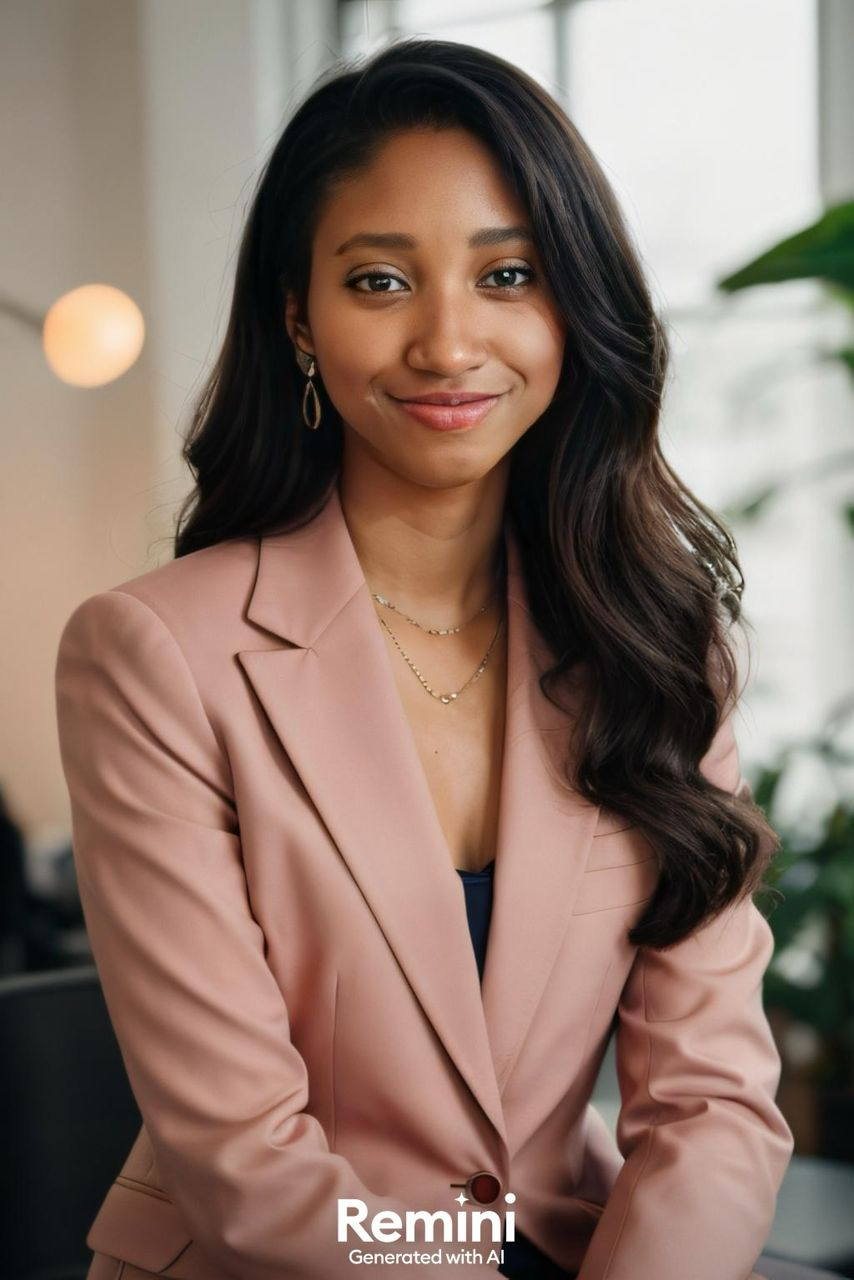
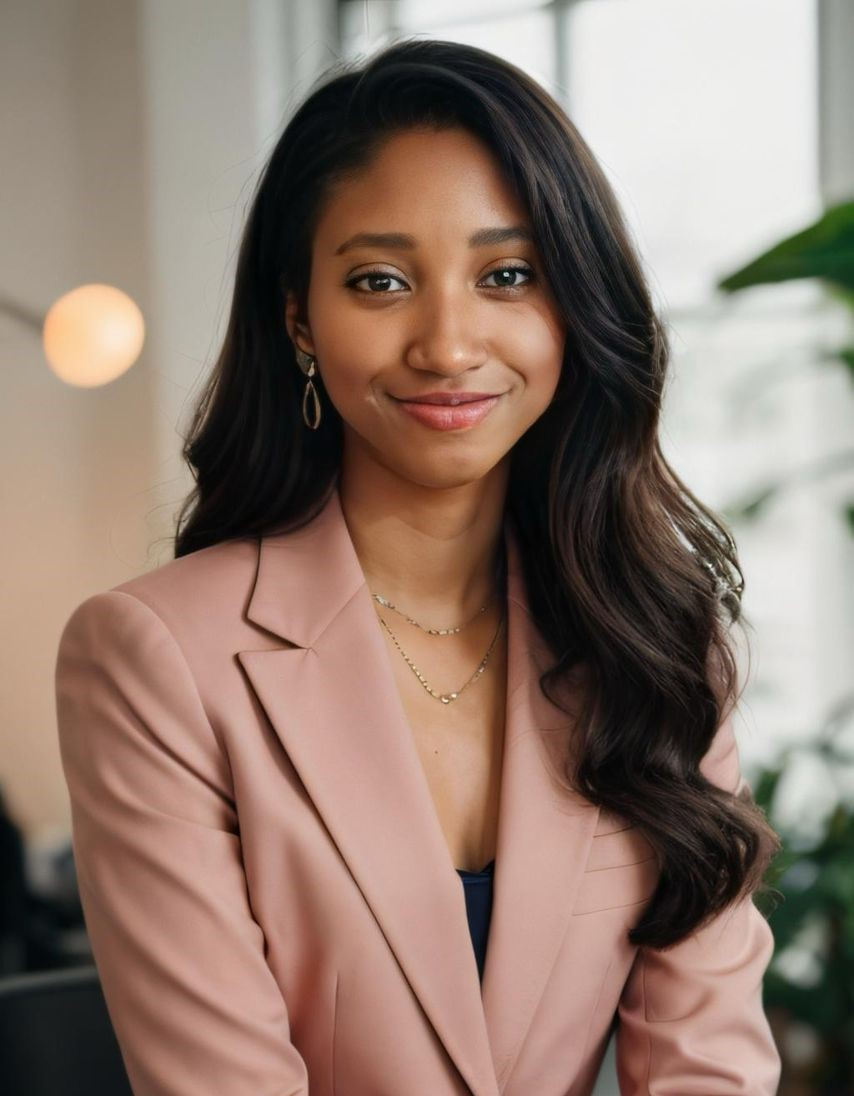
pictures

diff --git a/index.html b/index.html
@@ -51,12 +51,12 @@
     
     <section id="profile">
         <div class="section__pic-container">
-            <img src="./assets/v.jpg" alt="Donna Norkai Omaboe profile picture">
+            <img src="./assets/vii.jpg" alt="Donna Norkai Omaboe profile picture">
         </div>
         <div class = "section__text">
             <p class="section__text__p1">Hello I'm</p>
             <h1 class = "title">Donna Norkai Omaboe</h1>
-            <p class="section__text__p2">Frontend Developer</p>
+            <p class="section__text__p2">Aspiring Frontend Developer</p>
             <div class="btn-container">
                 <button class="btn btn-color-2"onclick = "window.open('./assets/Resume1.pdf')">Download CV</button>
                 <button class="btn btn-color-1"onclick = "location.href='./#contact'">Contact Info</button>
@@ -82,32 +82,32 @@
   <div class="about-wrapper">
     <!-- Left Side Image -->
     <div class="about-img-container">
-      <img src="./assets/iv.jpg" alt="Profile Picture" class="about-img" />
+      <img src="./assets/v.jpg" alt="Profile Picture" class="about-img" />
     </div>
 
     <!-- Right Side Content -->
     <div class="about-content">
       <div class="about-cards">
         <div class="about-card">
-          <img src="./assets/experience.png" alt="Experience Icon" class="icon" />
+          <!-- Experience Briefcase SVG Icon -->
+          <svg class="icon" xmlns="http://www.w3.org/2000/svg" width="40" height="40" fill="none" viewBox="0 0 24 24"><path fill="#333" d="M7 7V6a5 5 0 0 1 10 0v1h2a2 2 0 0 1 2 2v9a3 3 0 0 1-3 3H6a3 3 0 0 1-3-3V9a2 2 0 0 1 2-2h2Zm2-1a3 3 0 1 1 6 0v1H9V6Zm-5 4v9a1 1 0 0 0 1 1h14a1 1 0 0 0 1-1V10H4Z"/></svg>
           <h3>Experience</h3>
           <p>2+ years<br/>Frontend Development</p>
         </div>
 
         <div class="about-card">
-          <img src="./assets/education.png" alt="Education Icon" class="icon" />
+          <!-- Education SVG Icon -->
+          <svg class="icon" xmlns="http://www.w3.org/2000/svg" width="40" height="40" fill="none" viewBox="0 0 24 24"><path fill="#333" d="M12 3 2 9l10 6 10-6-10-6Zm0 13.618L4 11.382V17a1 1 0 0 0 1 1h14a1 1 0 0 0 1-1v-5.618l-8 5.236Z"/></svg>
           <h3>Education</h3>
-          <p>B.Sc. Bachelors Degree<br/>Computer</p>
+          <p>B.Sc. Bachelors Degree<br/>Computer Science</p>
         </div>
       </div>
 
       <div class="text-container">
         <p>
-          Hi, I’m Donna — a creative problem-solver and aspiring software engineer, graphic and fashion designer with a passion for blending design, technology, and strategy. 
-          I thrive at the intersection of functionality and aesthetics, creating digital experiences that are both impactful and visually engaging.
-          From modern website redesigns for global brands to interactive applications and eCommerce platforms, I enjoy 
-          turning ideas into polished, user-friendly products.I’m driven by curiosity, collaboration, and the challenge of learning something new everyday. 
-          Whether I’m coding, designing, or brainstorming creative campaigns, my goal is always the same — 
+          Hi, I’m Donna — a creative problem-solver and aspiring frontend developer, graphic and fashion designer with a passion for blending design, technology, and strategy. 
+          I thrive at the intersection of functionality and aesthetics, creating digital experiences that are both impactful and visually engaging.I’m driven by curiosity, collaboration, 
+          and the challenge of learning something new everyday. Whether I’m coding, designing, or brainstorming creative campaigns, my goal is always the same — 
           to bring ideas to life in ways that connect with people and deliver real results.
         </p>
       </div>
@@ -282,7 +282,7 @@
                 interactive GUI, and conversational AI capabilities.
             </p>
             <div class="project-links">
-                <a href="http://localhost:8505/" class="project-link" target="_blank">Live Demo</a>
+                <a href="https://simple-python-chatbot-mldqibfum-donnas-projects-a36af0c1.vercel.app/" class="project-link" target="_blank">Live Demo</a>
                 <a href="https://github.com/norkaid/Simple-Python-Chatbot" class="project-link" target="_blank">GitHub</a>
             </div>
         </div>
@@ -293,7 +293,7 @@
                 product catalog, shopping cart, and secure payment integration.
             </p>
             <div class="project-links">
-                <a href="http://localhost:5173/" class="project-link" target="_blank">Live Demo</a>
+                <a href="https://fusion-storefront-pro.lovable.app" class="project-link" target="_blank">Live Demo</a>
                 <a href="https://github.com/norkaid/FUTURE_FS_01/tree/main/assets/FUTURE_FS_02" class="project-link" target="_blank">GitHub</a>
             </div>
         </div>
@@ -305,7 +305,7 @@
     <p class="section__text__p1">Get In Touch</p>
     <h1 class="title">Contact Me</h1>
     <div class="contact-container">
-        <div class="contact-info">
+        <div class="contact-info contact-info-row">
             <div class="contact-item">
                 <h3>Email</h3>
                 <p>donnaomaboe2005@gmail.com</p>
@@ -319,21 +319,7 @@
                 <p>Accra, Ghana</p>
             </div>
         </div>
-        <form class="contact-form" id="contactForm">
-            <div class="form-group">
-                <input type="text" id="name" name="name" placeholder="Your Name" required>
-            </div>
-            <div class="form-group">
-                <input type="email" id="email" name="email" placeholder="Your Email" required>
-            </div>
-            <div class="form-group">
-                <input type="text" id="subject" name="subject" placeholder="Subject" required>
-            </div>
-            <div class="form-group">
-                <textarea id="message" name="message" placeholder="Your Message" rows="5" required></textarea>
-            </div>
-            <button type="submit" class="btn btn-color-1">Send Message</button>
-        </form>
+        <!-- Contact form removed as requested -->
     </div>
 </section>
 

diff --git a/style.css b/style.css
@@ -1,3 +1,43 @@
+/* Contact Info Row Layout */
+.contact-info-row {
+  display: flex;
+  flex-direction: row;
+  justify-content: center;
+  align-items: stretch;
+  gap: 2rem;
+  margin-top: 2rem;
+  max-width: 900px;
+  margin-left: auto;
+  margin-right: auto;
+}
+
+.contact-item {
+  background: white;
+  border-radius: 25px;
+  padding: 1.5rem;
+  border: 2px solid #f0f0f0;
+  box-shadow: 0 8px 25px rgba(0, 0, 0, 0.1);
+  transition: background 0.3s, color 0.3s, border-color 0.3s, box-shadow 0.3s;
+  font-size: 1rem;
+  font-weight: 500;
+  cursor: pointer;
+}
+
+.contact-item {
+  flex: 1 1 0;
+  text-align: center;
+}
+
+.contact-item:hover {
+  background: #111;
+  color: #fff;
+  border-color: #111;
+  box-shadow: 0 10px 25px rgba(0,0,0,0.18);
+}
+.contact-item:hover h3,
+.contact-item:hover p {
+  color: #fff;
+}
 /*GENERAL*/
 
 
@@ -187,7 +227,7 @@ a:hover {
     width: 100%;
     height: 100%;
     object-fit: cover; /* This ensures the image covers the container properly */
-    object-position: center; /* Centers the image within the circular frame */
+    object-position: 50% 60%; /* Move face further down */
 }
 
 /* Alternative approach - if you want a perfect circle regardless of image dimensions */
